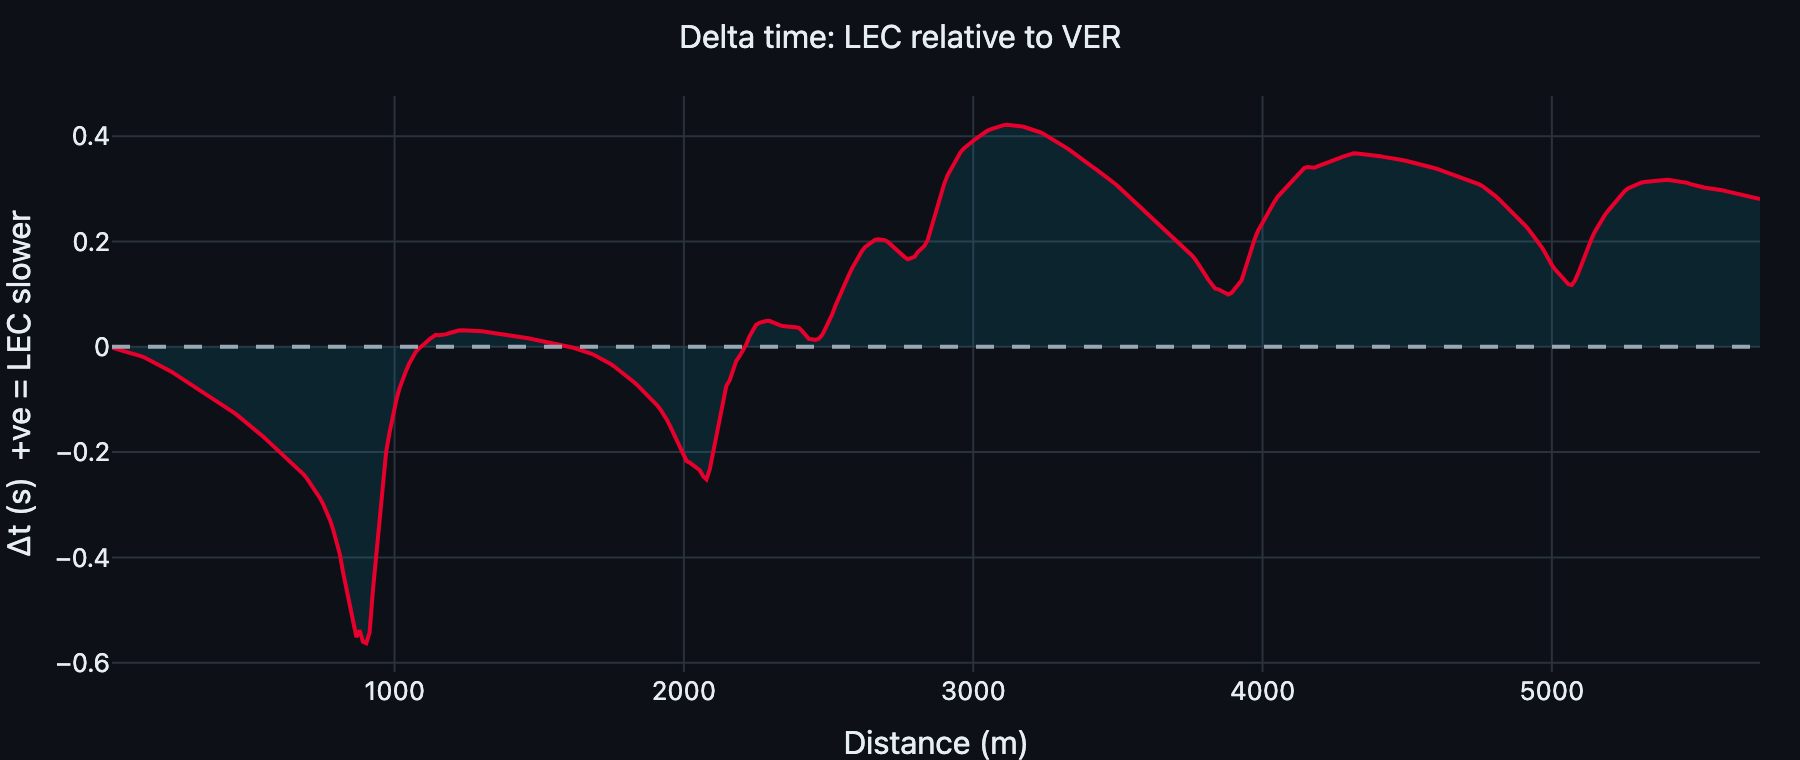
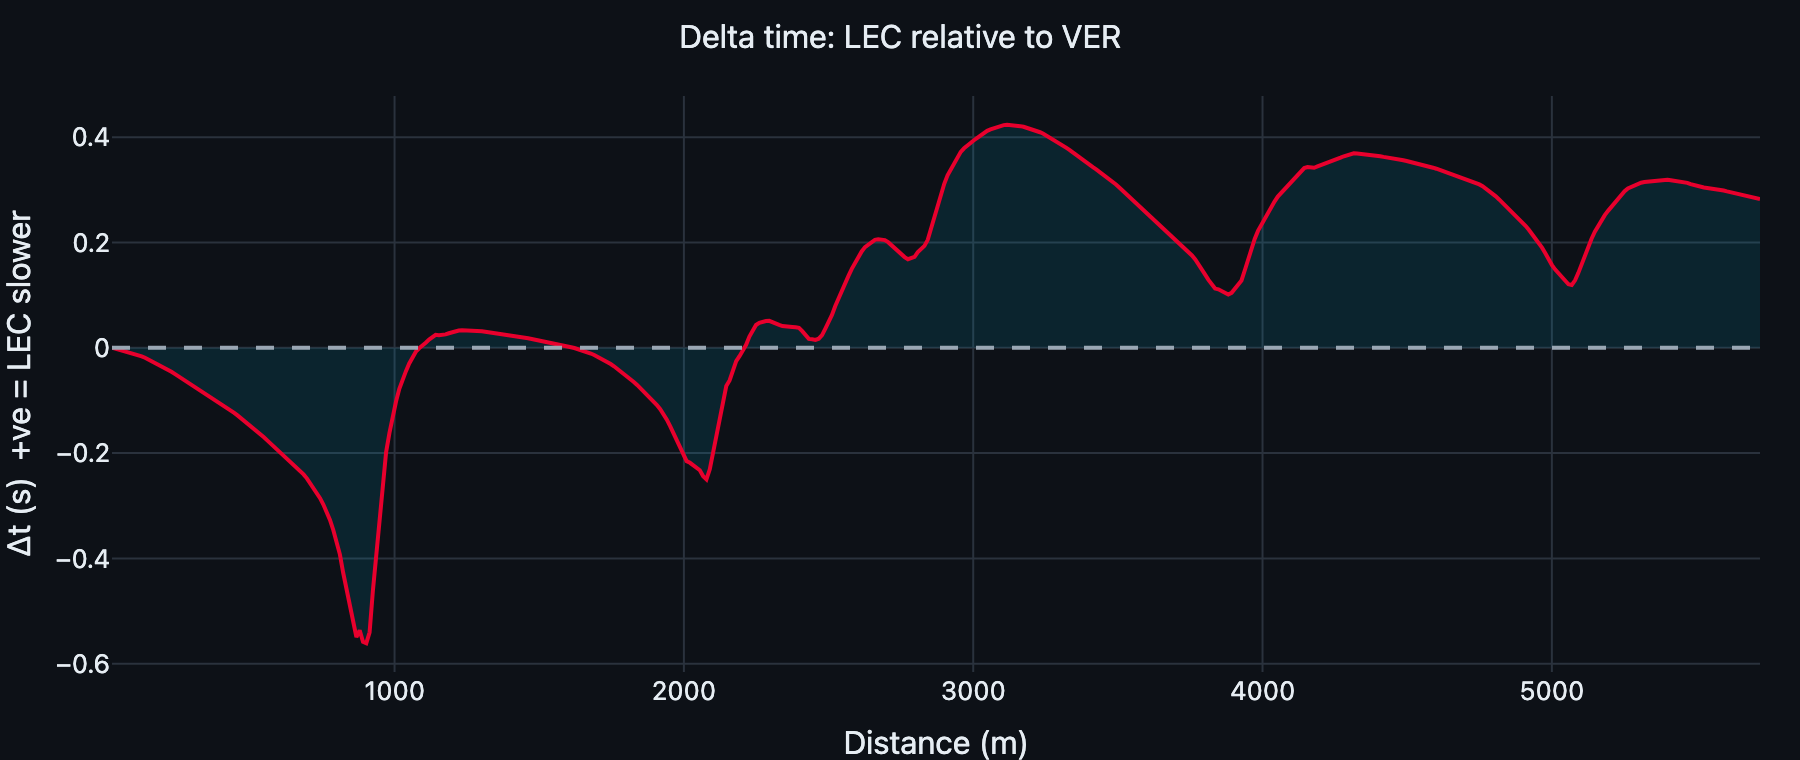
Evaluate the lap-time model on held-out driver stints
Replace the random lap split with GroupShuffleSplit grouped by driver stint so
within-stint correlation cannot leak between train and test. Updated verified
numbers everywhere (Monza: baseline 0.733s MAE, model 0.396s, 46% better).
Web app gains a bundled-sessions note and shareable ?session/a/b URLs.

diff --git a/web/src/main.ts b/web/src/main.ts
@@ -129,11 +129,17 @@ function activeTab(): string {
   return document.querySelector<HTMLButtonElement>('.tab.active')!.dataset.tab!;
 }
 
+function syncUrl(): void {
+  const q = new URLSearchParams({ session: state.slug, a: state.a, b: state.b });
+  history.replaceState(null, '', `?${q.toString()}`);
+}
+
 function rerender(): void {
   renderMatchup();
   renderMetrics();
   state.renderedTabs.clear();
   renderTab(activeTab());
+  syncUrl();
 }
 
 async function selectSession(slug: string): Promise<void> {
@@ -152,6 +158,14 @@ async function selectSession(slug: string): Promise<void> {
 async function init(): Promise<void> {
   state.sessions = await loadIndex();
   options($('session'), state.sessions.map((s) => ({ value: s.slug, label: s.label })));
+
+  // Shareable URLs: ?session=<slug>&a=<drv>&b=<drv>
+  const q = new URLSearchParams(location.search);
+  const wantSlug = q.get('session');
+  state.a = q.get('a') ?? '';
+  state.b = q.get('b') ?? '';
+  const initial = state.sessions.find((s) => s.slug === wantSlug)?.slug ?? state.sessions[0].slug;
+  ($('session') as HTMLSelectElement).value = initial;
 
   $('session').addEventListener('change', (e) => {
     void selectSession((e.target as HTMLSelectElement).value);
@@ -176,7 +190,7 @@ async function init(): Promise<void> {
     });
   });
 
-  await selectSession(state.sessions[0].slug);
+  await selectSession(initial);
 }
 
 void init().catch((err) => {

diff --git a/web/index.html b/web/index.html
@@ -38,6 +38,8 @@
       </label>
     </section>
 
+    <p class="caption demo-note">Five bundled public-demo sessions. The <a href="https://github.com/Johaan-Mannanal/motorsport-telemetry-analytics">local Streamlit app</a> loads any session from 2018 onward.</p>
+
     <section id="matchup" class="matchup" aria-live="polite"></section>
 
     <section class="metrics">

diff --git a/web/src/style.css b/web/src/style.css
@@ -82,6 +82,8 @@ body {
 .grid2 { display: grid; grid-template-columns: 1fr 1fr; gap: 14px; }
 .grid-track { display: grid; grid-template-columns: 3fr 2fr; gap: 14px; align-items: start; }
 .caption { color: var(--faint); font-size: 0.82rem; margin: 4px 0 14px; }
+.demo-note { margin: -4px 0 12px; }
+.demo-note a { color: var(--muted); text-decoration: underline; }
 .subh { font-family: var(--display); text-transform: uppercase; letter-spacing: 0.5px;
   font-size: 1rem; margin: 14px 0 8px; }
 

diff --git a/src/modeling.py b/src/modeling.py
@@ -17,7 +17,7 @@ import numpy as np
 import pandas as pd
 from sklearn.linear_model import LinearRegression
 from sklearn.metrics import mean_absolute_error, mean_squared_error
-from sklearn.model_selection import train_test_split
+from sklearn.model_selection import GroupShuffleSplit
 
 from .preprocessing import representative_laps
 
@@ -107,11 +107,14 @@ def tyre_degradation(laps: pd.DataFrame, min_laps: int = 6) -> list[DegradationR
     return sorted(results, key=lambda r: r.compound)
 
 
-def build_laptime_dataset(laps: pd.DataFrame) -> tuple[pd.DataFrame, pd.Series, list[str]]:
-    """Build a feature matrix and target (lap time, s) from green laps.
+def build_laptime_dataset(
+    laps: pd.DataFrame,
+) -> tuple[pd.DataFrame, pd.Series, pd.Series, list[str]]:
+    """Build a feature matrix, target (lap time, s), and stint groups from green laps.
 
     Features: tyre life, lap number (a proxy for fuel load burning off), one-hot compound, and
-    one-hot driver (to absorb car/driver pace differences).
+    one-hot driver (to absorb car/driver pace differences). Groups identify each driver stint so
+    the evaluation can hold out whole stints rather than random laps.
     """
     df = representative_laps(laps)
     if df.empty:
@@ -123,19 +126,24 @@ def build_laptime_dataset(laps: pd.DataFrame) -> tuple[pd.DataFrame, pd.Series, 
     drivers = pd.get_dummies(df["Driver"].astype(str), prefix="drv")
     feat = pd.concat([feat, compounds, drivers], axis=1)
     y = df["LapTimeSeconds"]
-    return feat, y, list(feat.columns)
+    groups = df["Driver"].astype(str) + "-" + df["Stint"].astype(str)
+    return feat, y, groups, list(feat.columns)
 
 
 def evaluate_laptime_model(laps: pd.DataFrame, random_state: int = RANDOM_SEED) -> LapTimeModelResult:
     """Fit the lap-time model and compare it to a mean-lap-time baseline on a held-out split.
 
-    Returns a :class:`LapTimeModelResult` with MAE/RMSE for both, plus per-compound degradation
-    and explicit limitations. Requires enough green laps to form a train/test split.
+    The held-out set is chosen by driver stint (GroupShuffleSplit), so no laps from the same
+    stint appear in both training and testing. Returns a :class:`LapTimeModelResult` with
+    MAE/RMSE for both, plus per-compound degradation and explicit limitations.
     """
-    X, y, feats = build_laptime_dataset(laps)
+    X, y, groups, feats = build_laptime_dataset(laps)
     if len(X) < 20:
         raise ValueError(f"not enough green laps to evaluate a model (have {len(X)}, need >= 20)")
-    X_tr, X_te, y_tr, y_te = train_test_split(X, y, test_size=0.25, random_state=random_state)
+    splitter = GroupShuffleSplit(n_splits=1, test_size=0.25, random_state=random_state)
+    tr_idx, te_idx = next(splitter.split(X, y, groups=groups))
+    X_tr, X_te = X.iloc[tr_idx], X.iloc[te_idx]
+    y_tr, y_te = y.iloc[tr_idx], y.iloc[te_idx]
 
     # Baseline: predict the training mean lap time for every test lap.
     baseline_pred = np.full(len(y_te), float(y_tr.mean()))
@@ -150,10 +158,11 @@ def evaluate_laptime_model(laps: pd.DataFrame, random_state: int = RANDOM_SEED) 
     notes = [
         "Single-session model; coefficients describe correlation, not causation.",
         "Green-lap filter removes in/out, safety-car and traffic laps but is heuristic.",
+        "Held-out laps come from whole unseen driver stints (grouped split), so within-stint "
+        "correlation cannot leak between train and test.",
         "Driver identity is included, so the model partly memorizes per-driver pace; it is not a "
         "generalizable cross-race predictor.",
         "Weather, track evolution, and fuel mass are only crudely proxied (lap number).",
-        "Random lap split can leak within-stint correlation; treat gains as indicative.",
     ]
     return LapTimeModelResult(
         features=feats,

diff --git a/tests/test_modeling.py b/tests/test_modeling.py
@@ -7,10 +7,15 @@ from src import telemetry_analysis as ta
 
 
 def _degrading_laps(n_per=25, slope=0.05, base=90.0):
-    """Two compounds with a known lap-time-vs-tyre-life slope, plus mild noise."""
+    """Four stints across two compounds with a known lap-time slope, plus mild noise.
+
+    Two stints per compound so the grouped (stint-held-out) evaluation always keeps each
+    compound represented in training.
+    """
     rng = np.random.default_rng(1)
     rows = []
-    for stint, (comp, off) in enumerate([("MEDIUM", 0.0), ("HARD", 0.6)], start=1):
+    stints = [("MEDIUM", 0.0), ("HARD", 0.6), ("MEDIUM", 0.05), ("HARD", 0.65)]
+    for stint, (comp, off) in enumerate(stints, start=1):
         for age in range(1, n_per + 1):
             lt = base + off + slope * age + rng.normal(0, 0.1)
             rows.append(

diff --git a/README.md b/README.md
@@ -87,18 +87,20 @@ A deliberately **transparent** data-science component, not a strategy oracle:
    "seconds lost per lap of tyre life."
 2. **Lap-time model**: linear regression on tyre age, lap number (a fuel-burn proxy), one-hot
    compound, and one-hot driver, compared against a **baseline** that predicts the mean lap time.
-   Evaluated on a held-out 25% split (seed 42), reporting MAE and RMSE.
+   Evaluated on **whole held-out driver stints** (GroupShuffleSplit, 25%, seed 42) so laps from
+   the same stint never appear in both training and testing; reporting MAE and RMSE.
 
 ## Verified results
 Reproduce with `python scripts/generate_assets.py` (writes [`results/model_metrics.json`](results/model_metrics.json)).
-Reference session: **2023 Italian Grand Prix (Monza), Race**, 878 green laps (658 train / 220 test).
+Reference session: **2023 Italian Grand Prix (Monza), Race**, 878 green laps
+(628 train / 250 test, split by whole driver stints).
 
 | Model | MAE (s) | RMSE (s) |
 |-------|---------|----------|
-| Baseline (predict mean lap time) | 0.591 | 0.745 |
-| **Lap-time model** (linear regression) | **0.293** | **0.407** |
+| Baseline (predict mean lap time) | 0.733 | 0.901 |
+| **Lap-time model** (linear regression) | **0.396** | **0.553** |
 
-The model roughly **halves the baseline error** (≈50% lower MAE). Tyre degradation at Monza (a
+On laps from entirely unseen stints, the model cuts the baseline error by **46%**. Tyre degradation at Monza (a
 low-degradation circuit) came out to ~**0.025 s per lap of tyre life** for both HARD and MEDIUM,
 with **low R² (0.04–0.07)**, which is honest: at Monza, tyre age alone explains little of the
 lap-to-lap variation (fuel, traffic, and driver pace dominate). Higher-degradation circuits show
@@ -109,7 +111,8 @@ steeper, cleaner slopes.
 - The lap-time model includes **driver identity**, so it partly memorizes per-driver pace: it is
   **not** a generalizable cross-race predictor.
 - Green-lap filtering is a heuristic; weather, track evolution, and fuel mass are only crudely
-  proxied. A random lap split can leak within-stint correlation, so treat the gain as indicative.
+  proxied. The held-out set is grouped by driver stint, so within-stint correlation cannot leak
+  between train and test.
 - This is an analysis tool, **not** a replacement for a race engineer's judgment.
 
 ## Deploy